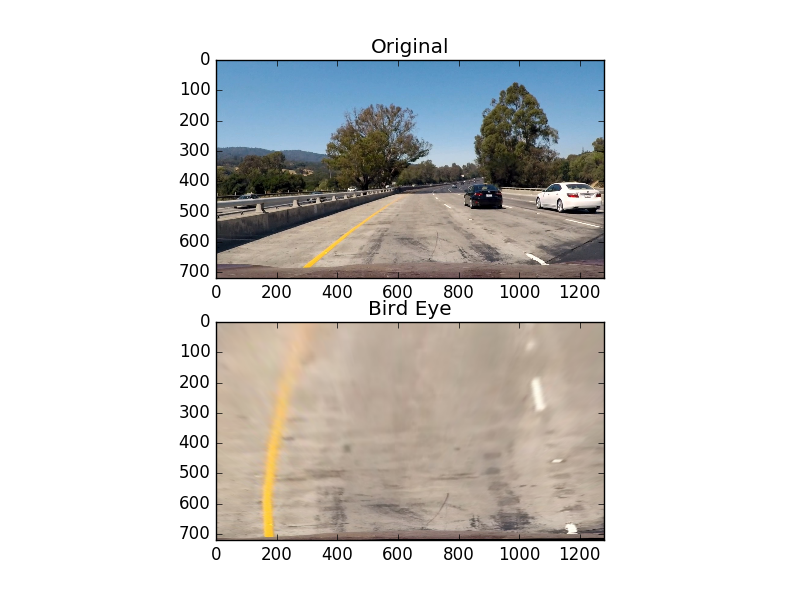
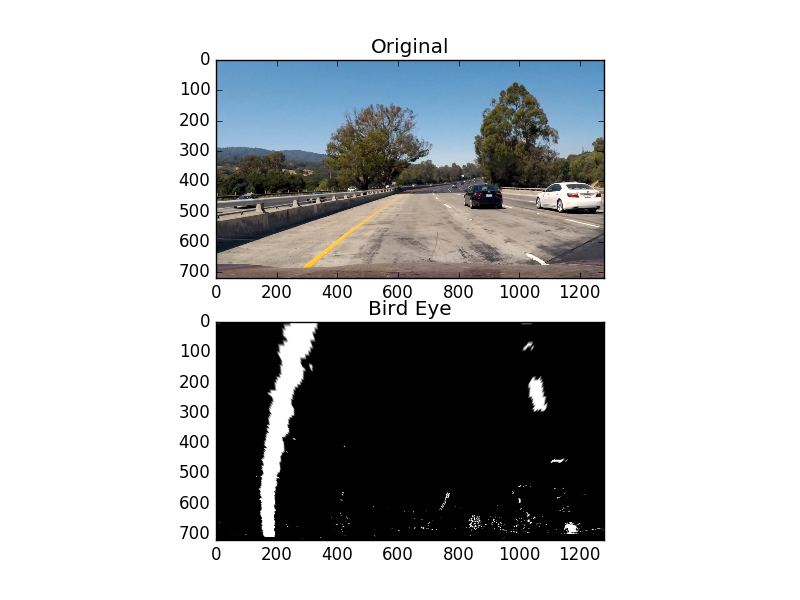
added some solutions to the project

Changed region(s): [[0.25, 0.54, 0.7812, 0.9]]

diff --git a/advanced_lane_lines_detection/solution.py b/advanced_lane_lines_detection/solution.py
@@ -3,6 +3,7 @@ import cv2
 import glob
 from scipy.misc import imread, imresize, imsave
 import matplotlib.pyplot as plt
+from detect import detect_lane_lines, full_detect_lane_lines
 # %matplotlib qt
 
 
@@ -96,14 +97,15 @@ def hsv_threshold(img, thresh=(170, 255)):
 
 
 def threshold(image, ksize=3):
-    gradx = abs_sobel_thresh(image, orient='x', thresh=(20, 100))
-    grady = abs_sobel_thresh(image, orient='y', thresh=(20, 100))
-    mag_binary = mag_thresh(image, sobel_kernel=ksize, mag_thresh=(30, 100))
-    dir_binary = dir_threshold(image, sobel_kernel=ksize, thresh=(0.7, 1.3))
-    hsv_binary = hsv_threshold(image, thresh=(70, 255))
+    gradx = abs_sobel_thresh(image, orient='x', thresh=(30, 100))
+    grady = abs_sobel_thresh(image, orient='y', thresh=(30, 100))
+    mag_binary = mag_thresh(image, sobel_kernel=ksize, mag_thresh=(40, 100))
+    # dir_binary = dir_threshold(image, sobel_kernel=ksize, thresh=(0.7, 1.3))
+    hsv_binary = hsv_threshold(image, thresh=(130, 255))
 
-    combined = np.zeros_like(dir_binary)
-    combined[((gradx == 1) & (grady == 1)) | ((mag_binary == 1) & (dir_binary == 1) | (hsv_binary == 1))] = 1
+    combined = np.zeros_like(hsv_binary)
+
+    combined[(hsv_binary == 1) | ((grady == 1) & (gradx == 1)) | ((mag_binary == 1) & (gradx == 1))] = 1
 
     return combined
 
@@ -133,51 +135,126 @@ def pipeline(img, s_thresh=(170, 255), sx_thresh=(20, 100)):
     return color_binary
 
 
-def transform(img, src, dst):
+def transform(img, src, dst, img_size):
     M = cv2.getPerspectiveTransform(src, dst)
-
-    gray = cv2.cvtColor(img, cv2.COLOR_BGR2GRAY)
-    gray_size = (gray.shape[1], gray.shape[0])
-    return cv2.warpPerspective(img, M, gray_size, flags=cv2.INTER_LINEAR)
+    return cv2.warpPerspective(img, M, img_size)
 
 
 def get_histogram(img):
-    import numpy as np
     histogram = np.sum(img[(int)(img.shape[0] / 2):, :], axis=0)
     return histogram
 
 
-(objpoints, imgpoints) = get_points()
-input_image = imread('./test_images/test1.jpg')
-output_image = cal_undistort(input_image, objpoints, imgpoints)
-# threshold_image = threshold(output_image)
-threshold_image = pipeline(output_image)
-threshold_image_2 = threshold(output_image)
+def full_pipeline(input_image):
+    (objpoints, imgpoints) = get_points()
+    output_image = cal_undistort(input_image, objpoints, imgpoints)
+    # threshold_image = threshold(output_image)
+    threshold_image2 = pipeline(output_image)
+    threshold_image = threshold(output_image)
 
-src = np.float32([
-    [300, 707],
-    [580, 463],
-    [750, 463],
-    [1146, 707]
-])
+    src = np.float32([
+        [300, 707],
+        [580, 463],
+        [750, 463],
+        [1146, 707]
+    ])
 
-dst = np.float32([
-    [209, 713],
-    [203, 60],
-    [1134, 37],
-    [1191, 707]
-])
+    dst = np.float32([
+        [209, 713],
+        [203, 60],
+        [1134, 37],
+        [1191, 707]
+    ])
 
-transformed_image = transform(output_image, src, dst)
-histogram = get_histogram(cv2.cvtColor(transformed_image, cv2.COLOR_BGR2GRAY))
+    # src = np.float32([
+    #     [595, 450],
+    #     [690, 450],
+    #     [216, 720],
+    #     [1115, 720]
+    # ])
+    #
+    # dst = np.float32([
+    #     [440, 0],
+    #     [840, 0],
+    #     [440, 720],
+    #     [840, 720]
+    # ])
 
-plt.subplot(2, 1, 1)
-plt.title('Original')
-plt.imshow(input_image)
-plt.subplot(2, 1, 2)
-plt.title('Bird Eye')
-plt.imshow(transformed_image)
-plt.show()
+
+    gray = cv2.cvtColor(input_image, cv2.COLOR_BGR2GRAY)
+    img_size = (gray.shape[1], gray.shape[0])
+    transformed_image = transform(threshold_image, src, dst, img_size)
+
+    # cv2.rectangle(transformed_image, (100, 100), (700, 300), (255, 0, 0), 2)
+    # plt.imshow(transformed_image)
+    # plt.show()
+
+    plt.imshow(transformed_image)
+    plt.show()
+
+    histogram = get_histogram(transformed_image)
+
+    (left_lane, right_lane, out_image) = full_detect_lane_lines(transformed_image)
+
+    ploty = np.linspace(0, transformed_image.shape[0]-1, transformed_image.shape[0])
+    left_fitx = left_lane.fit()[0] * ploty ** 2 + left_lane.fit()[1] * ploty + left_lane.fit()[2]
+    right_fitx = right_lane.fit()[0] * ploty ** 2 + right_lane.fit()[1] * ploty + right_lane.fit()[2]
+
+    plt.imshow(out_image)
+    plt.plot(left_fitx, ploty, color='yellow')
+    plt.plot(right_fitx, ploty, color='red')
+    plt.xlim(0, 1280)
+    plt.ylim(720, 0)
+    plt.show()
+    return out_image
+
+
+result = full_pipeline(imread('./test_images/test1.jpg'))
+# plt.imshow(result)
+# plt.show()
+
+# f, (ax1, ax2) = plt.subplots(1, 2, figsize=(13, 10))
+# f.tight_layout()
+#
+# ax1.set_title("Sliding windows used in detection")
+# ax1.imshow(result, cmap="gray")
+#
+# ax2.set_title("Fitted lines found in detection")
+# ax2.imshow(result, cmap="gray");
+#
+# # Left lane
+# # import pytest; pytest.set_trace()
+# left_p = np.poly1d(lanes.left.pixels.fit())
+# left_xp = np.linspace(0, 720, 100)
+#
+# # import pytest; pytest.set_trace()
+# ax2.plot(left_p(left_xp), left_xp)
+#
+# # Right lane
+# right_p = np.poly1d(lanes.right.pixels.fit())
+# right_xp = np.linspace(0, 720, 100)
+# ax2.plot(right_p(right_xp), right_xp)
+#
+# plt.show();
+
+
+# plt.subplot(2, 2, 1)
+# plt.title('Original')
+# plt.imshow(input_image)
+# plt.subplot(2, 2, 2)
+# plt.title('Threshold')
+# plt.imshow(threshold_image, cmap='gray')
+# plt.subplot(2, 2, 3)
+# plt.title('Transformed')
+# plt.imshow(transformed_image)
+# plt.subplot(2, 2, 4)
+# plt.title('Result')
+# plt.imshow(result)
+# plt.subplot(3, 1, 3)
+# plt.plot(histogram)
+# plt.show()
+
+# import pytest; pytest.set_trace()
 
 # plt.subplot(3, 2, 1)
 # plt.title('Original')

diff --git a/advanced_lane_lines_detection/README.md b/advanced_lane_lines_detection/README.md
@@ -4,18 +4,6 @@
 
 **Advanced Lane Finding Project**
 
-The goals / steps of this project are the following:
-
-* Compute the camera calibration matrix and distortion coefficients given a set of chessboard images.
-* Apply a distortion correction to raw images.
-* Use color transforms, gradients, etc., to create a thresholded binary image.
-* Apply a perspective transform to rectify binary image ("birds-eye view").
-* Detect lane pixels and fit to find the lane boundary.
-* Determine the curvature of the lane and vehicle position with respect to center.
-* Warp the detected lane boundaries back onto the original image.
-* Output visual display of the lane boundaries and numerical estimation of lane curvature and vehicle position.
-
----
 ###Camera Calibration
 
 ####1. Briefly state how you computed the camera matrix and distortion coefficients. Provide an example of a distortion corrected calibration image.
@@ -31,28 +19,34 @@ This will return the undistorted image.
 ![Image Calibrated](solutions/test_1_original_vs_calibrated.png)
 
 ####2. Describe how (and identify where in your code) you used color transforms, gradients or other methods to create a thresholded binary image.  Provide an example of a binary image result.
-I used a combination of color and gradient thresholds to generate a binary image (thresholding steps at lines # through # in `another_file.py`).  Here's an example of my output for this step.  (note: this is not actually from one of the test images)
+
+The code for this step is in solution.py in threshold, abs_sobel_thresh, mag_threshold and hsv_threshold
+
+abs_sobel_thresh does sobel threshold on an image in any direction x or y. The image is first converted into gray scale, then sobel threshold is applied with a given threshold.
+In this case, we did did both x sobel with threshold (20, 100) and y sobel with threshold (20, 100).
+
+mag_threshold does magnitude threshold on an image by first converting the image into gray scale, then doing sobel x and sobel y and calculating gradient magnitude as sqrt(sobelx^2, sobely^2) and a scale factor of maximum value of gradient magnitude / 255. Then our final gradient magnitude is the gradient magnitude divided by the scale factor. The threshold given is then applied to that.
+In this case, we did a magnitude threshold of (30, 100).
+
+hsv_threshold converts the image to HSV color space and then applies a given threshold on the S channel. In this case the threshold applied is (100, 255).
+
+The final image output is composed of:
+Either (abs_sobel_thresh of 1 for x and abs_sobel_thresh of 1 for y)
+or (mag_threshold of 1 and abs_sobel_thresh of 1 for x)
+or (hsv_threshold of 1)
 
 ![Threshold](solutions/threshold.png)
 
 ####3. Describe how (and identify where in your code) you performed a perspective transform and provide an example of a transformed image.
 
-The code for my perspective transform includes a function called `warper()`, which appears in lines 1 through 8 in the file `example.py` (output_images/examples/example.py) (or, for example, in the 3rd code cell of the IPython notebook).  The `warper()` function takes as inputs an image (`img`), as well as source (`src`) and destination (`dst`) points.  I chose the hardcode the source and destination points in the following manner:
+The code for this step is in solution.py in transform.
+transform takes source and destination points and gets the transformation matrix and then transforms the image.
+In this case, src and dst were retrieved from the image below:
 
-```
-src = np.float32(
-    [[(img_size[0] / 2) - 55, img_size[1] / 2 + 100],
-    [((img_size[0] / 6) - 10), img_size[1]],
-    [(img_size[0] * 5 / 6) + 60, img_size[1]],
-    [(img_size[0] / 2 + 55), img_size[1] / 2 + 100]])
-dst = np.float32(
-    [[(img_size[0] / 4), 0],
-    [(img_size[0] / 4), img_size[1]],
-    [(img_size[0] * 3 / 4), img_size[1]],
-    [(img_size[0] * 3 / 4), 0]])
+![Transform Image](test_images/test1.jpg)
 
-```
-This resulted in the following source and destination points:
+
+The following source and destination were retrieved from the image above:
 
 | Source        | Destination   | 
 |:-------------:|:-------------:| 
@@ -62,11 +56,19 @@ This resulted in the following source and destination points:
 | 1146, 707     | 1191, 707     |
 
 
-I verified that my perspective transform was working as expected by drawing the `src` and `dst` points onto a test image and its warped counterpart to verify that the lines appear parallel in the warped image.
+
+
+By applying the transform method with these source and destination points, we change the prespective into a bird eye view prespective as can be seen in the following image:
+
 
 ![Bird Eye](solutions/bird_eye.png)
 
 ####4. Describe how (and identify where in your code) you identified lane-line pixels and fit their positions with a polynomial?
+
+The following histogram shows the sum of the pixel values over the lower half of the bird eye view, and it shows two spikes where the lanes are at.
+
+![Lane](solutions/histogram.png)
+
 
 Then I did some other stuff and fit my lane lines with a 2nd order polynomial kinda like this:
 
